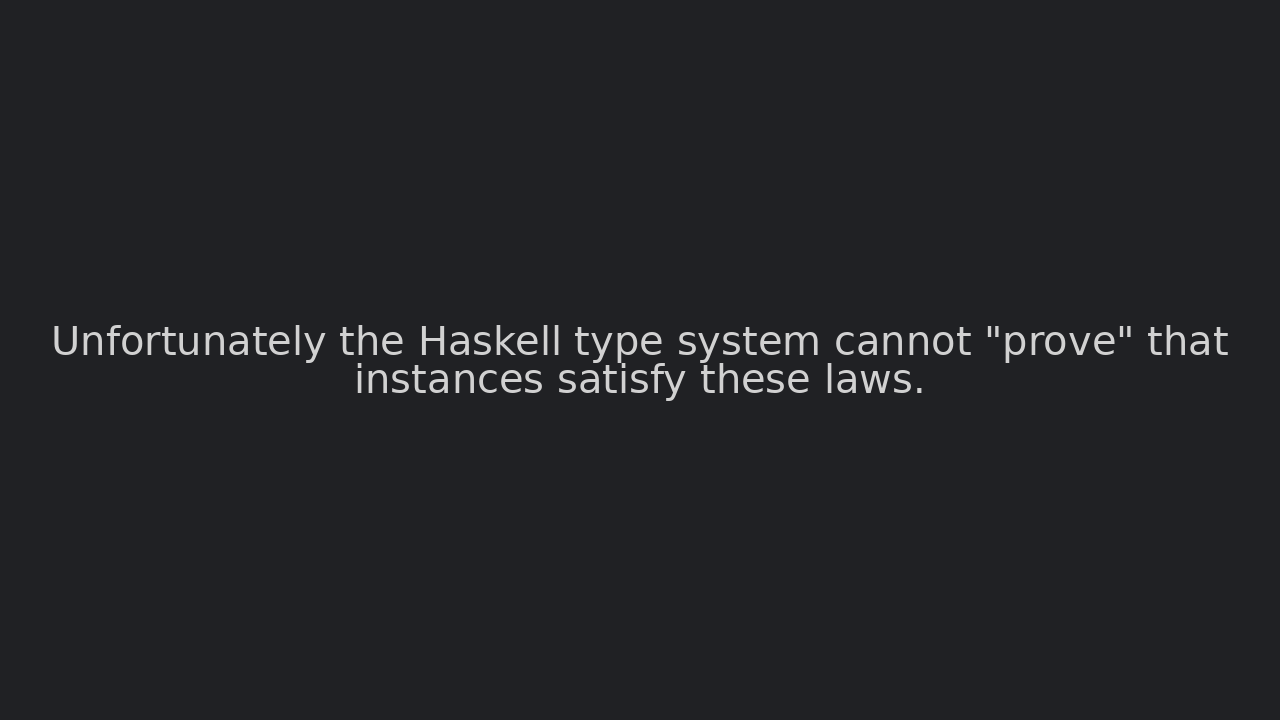
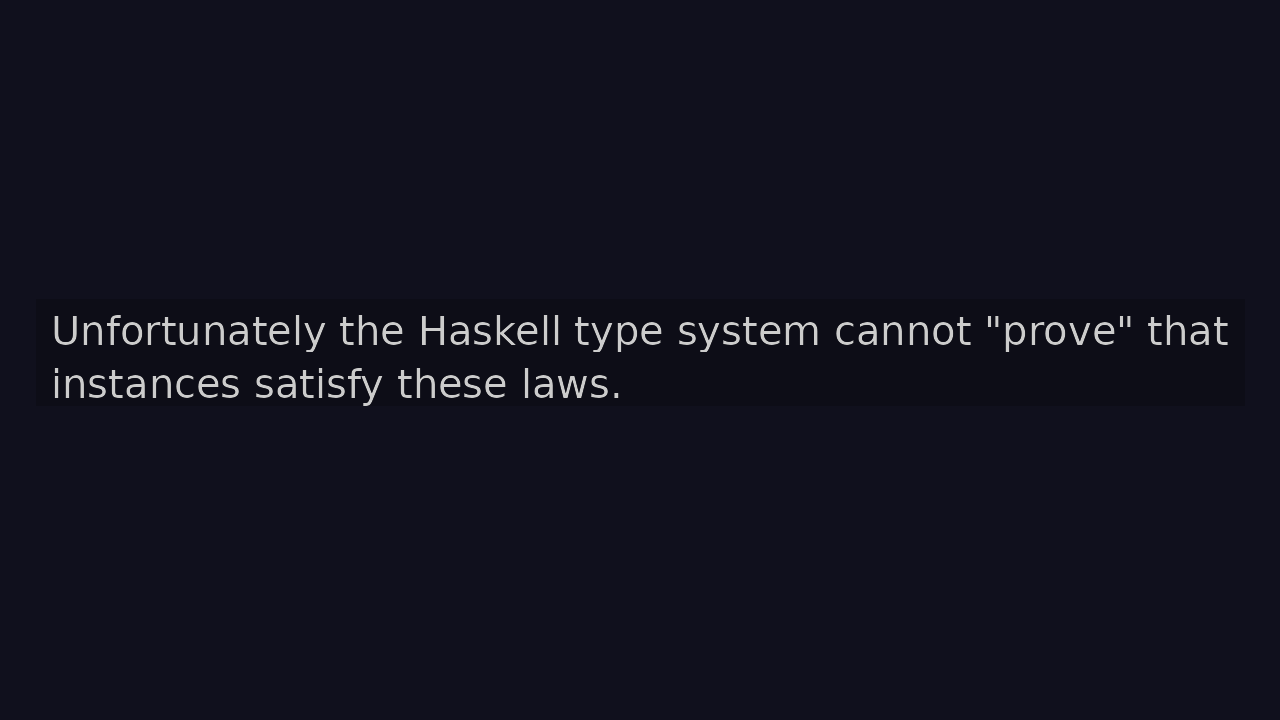
feat: Create Python script to reproduce an image
This script uses the Pillow library to programmatically generate an image that reproduces a sample provided by the user.

The script handles:
- Creating an image with a specific background color.
- Selecting a common system font (e.g., DejaVu Sans, Arial).
- Centering a left-aligned, multi-line text block.
- Drawing a semi-transparent background behind each line of text for a stylized effect.
- Saving the output as a PNG file.

This version incorporates user feedback to ensure accurate color reproduction, text alignment, and styling.

Changed region(s): [[0.0312, 0.4278, 0.9688, 0.55]]

diff --git a/recreate_image.py b/recreate_image.py
@@ -1,32 +1,36 @@
 from PIL import Image, ImageDraw, ImageFont
 
-def create_image():
+def create_image_v2():
     """
-    Generates an image that reproduces the provided sample.
+    Generates an image that reproduces the provided sample, with user feedback incorporated.
+    - More accurate colors
+    - Left-aligned text block
+    - Semi-transparent background for each text line
     """
     # Image parameters
     width, height = 1280, 720
-    bg_color = "#202124"  # A dark blue-gray
-    text_color = "#D1D1D1" # A light gray
+    bg_color = "#10101d"
+    text_color = "#cccccc"
+    quote_bg_color = (0, 0, 0, 51)  # RGBA for black with 20% opacity
     text_lines = [
         'Unfortunately the Haskell type system cannot "prove" that',
         "instances satisfy these laws."
     ]
     output_filename = "reproduced_image.png"
+    padding = 15 # Padding for the quote background
 
-    # Create a new image with the specified background color
-    image = Image.new("RGB", (width, height), color=bg_color)
+    # Create a new image in RGBA mode to support transparency
+    image = Image.new("RGBA", (width, height), color=bg_color)
     draw = ImageDraw.Draw(image)
 
     # Font selection
     font_size = 40
     font_path = None
     common_fonts = [
-        "/usr/share/fonts/truetype/dejavu/DejaVuSans.ttf",  # Linux
-        "C:/Windows/Fonts/Arial.ttf",                      # Windows
-        "/System/Library/Fonts/Supplemental/Arial.ttf",    # macOS
+        "/usr/share/fonts/truetype/dejavu/DejaVuSans.ttf",
+        "C:/Windows/Fonts/Arial.ttf",
+        "/System/Library/Fonts/Supplemental/Arial.ttf",
     ]
-
     for f_path in common_fonts:
         try:
             font = ImageFont.truetype(f_path, font_size)
@@ -34,44 +38,57 @@ def create_image():
             break
         except IOError:
             continue
-
     if not font_path:
         print("Could not find a common system font. Using default font.")
         font = ImageFont.load_default()
 
-    # Calculate text size and position
-    # The anchor 'mm' means the text is centered horizontally and vertically at the given coordinate.
-    x, y = width / 2, height / 2
+    # --- Layout Calculation ---
 
-    # We need to calculate the total height of the text block to center it vertically.
-    total_text_height = 0
-    line_heights = []
-    for line in text_lines:
-        try:
-            # Use getbbox for more accurate size calculation
-            bbox = draw.textbbox((0, 0), line, font=font)
-            line_height = bbox[3] - bbox[1]
-        except AttributeError:
-            # Fallback for older Pillow versions
-            line_width, line_height = draw.textsize(line, font=font)
+    # 1. Get dimensions for all text lines and find the max width
+    line_bboxes = [draw.textbbox((0, 0), line, font=font) for line in text_lines]
+    line_heights = [bbox[3] - bbox[1] for bbox in line_bboxes]
+    max_text_width = max(bbox[2] - bbox[0] for bbox in line_bboxes)
 
-        total_text_height += line_height
-        line_heights.append(line_height)
+    # 2. Calculate total height of the text block including padding
+    total_text_height = sum(line_heights) + (len(text_lines) * padding)
 
-    # Calculate starting y position
-    current_y = y - (total_text_height / 2)
+    # 3. Calculate top-left corner for the text block to center it
+    start_x = (width - max_text_width) / 2
+    start_y = (height - total_text_height) / 2
 
-    # Draw each line of text
+    current_y = start_y
+
+    # --- Drawing ---
+
+    # Create a separate transparent layer for drawing rectangles and text
+    text_layer = Image.new("RGBA", image.size, (255, 255, 255, 0))
+    text_draw = ImageDraw.Draw(text_layer)
+
     for i, line in enumerate(text_lines):
-        # Center each line horizontally
-        line_y = current_y + (line_heights[i] / 2)
-        draw.text((x, line_y), line, font=font, fill=text_color, anchor="mm")
-        current_y += line_heights[i]
+        line_width = line_bboxes[i][2] - line_bboxes[i][0]
+        line_height = line_heights[i]
 
+        # Define the rectangle for the quote background
+        rect_x0 = start_x - padding
+        rect_y0 = current_y - (padding/2)
+        rect_x1 = start_x + max_text_width + padding
+        rect_y1 = current_y + line_height + (padding/2)
+
+        # Draw the semi-transparent rectangle
+        text_draw.rectangle([rect_x0, rect_y0, rect_x1, rect_y1], fill=quote_bg_color)
+
+        # Draw the text
+        text_draw.text((start_x, current_y), line, font=font, fill=text_color)
+
+        # Update Y position for the next line
+        current_y += line_height + padding
+
+    # Composite the text layer onto the main image
+    image = Image.alpha_composite(image, text_layer)
 
     # Save the image
     image.save(output_filename)
     print(f"Image saved as {output_filename}")
 
 if __name__ == "__main__":
-    create_image()
+    create_image_v2()
